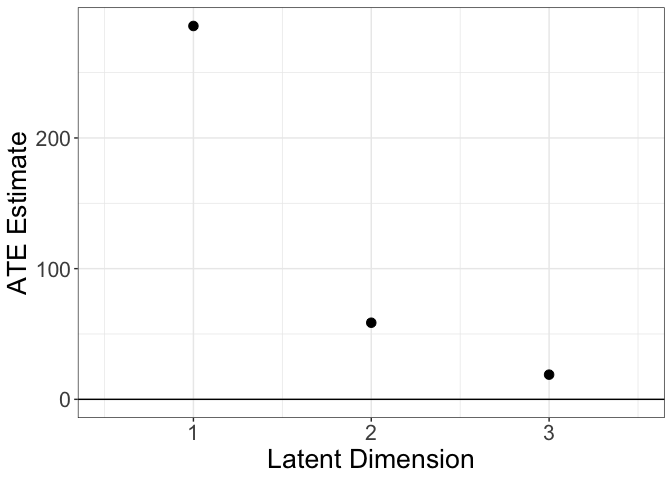
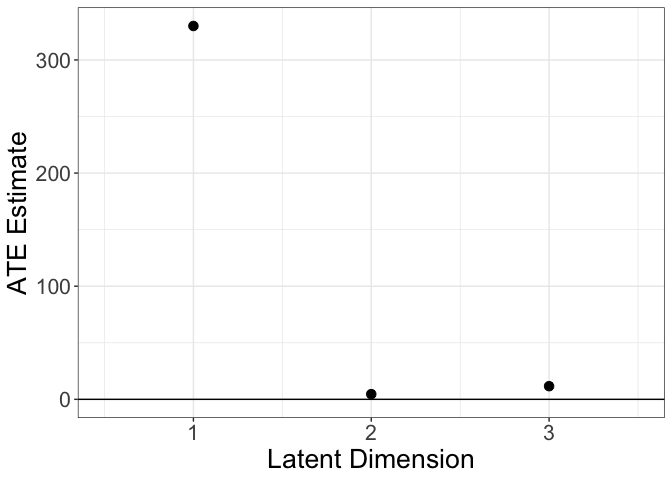
update Rmd

diff --git a/README.md b/README.md
@@ -48,6 +48,8 @@ for (i in 1:N) {
 
 ### Run impute and stabilize algorithm once to yield a point estimate.
 
+Providing a `reference_P` does not affect the algorithm, but aligns results at the end.
+
 ``` r
 impute_and_stabilize_res <- impute_and_stabilize(
   M, Tr, rank = 3, reference_P = true_P
@@ -65,9 +67,9 @@ summary(impute_and_stabilize_res)
 
 ```         
         ATE
-1 285.68717
-2  58.62578
-3  18.89587
+1 330.03103
+2   4.59252
+3  11.64228
 ```
 
 ``` r
@@ -76,7 +78,7 @@ plot(impute_and_stabilize_res)
 
 ![](README_files/figure-commonmark/unnamed-chunk-4-1.png)
 
-If you have multiple sets of results, they can be plotted together with `plot_causalLFO_results`. This could be from multiple algorithms as we have here, or alternatively from multiple datasets.
+If you have multiple sets of results, they can be plotted together with `plot_causalLFO_results`. This could be from multiple algorithms as we have here, or alternatively from multiple datasets. This only makes sense when the same `reference_P` is used for all results. If a reference is not available, the resulting `Phat` from the first result.
 
 ``` r
 all_data_res <- all_data(
@@ -158,10 +160,8 @@ plot_causalLFO_bootstrap_results(res_list)
 
 ## Algorithms
 
-This section follows the notation of the paper “Causal Inference for Latent Factor-Modeled Outcomes”. Please refer to sections 2 and 3 for details.
-
-The primary algorithm provided by this package is the `impute_and_stabilize` algorithm proposed in the paper “Causal Inference for Latent Factor-Modeled Outcomes”. We first estimate unobserved potential outcomes $\mathbf Y(1-\mathbf T)$ with imputations $\tilde{\mathbf Y}_{1-\mathbf T}$. We fit the factor model $\hat{\boldsymbol \lambda}$ on a matrix of the original sample size $\tilde{\mathbf Y}_{\mathbf 0}$ as a combination of observed (for $T_i = 0$) and imputed (for $T_i = 1$) values to estimate $\ell_{\text{IS}, 0}(Y_i, T_i)$. A non-negative linear model is then used on the remaining $\tilde{\mathbf Y}_{1}$ with fixed $\hat{\boldsymbol \lambda}$ to measure $\ell_{\text{IS}, 1}(Y_i, T_i)$. Pairwise comparisons are used to estimate ATE with a mean of individual treatment effects estimator.
-
-We also provide two baselines for comparison. First, `all_data` uses the full dataset $\mathbf Y$ to perform matrix decomposition to estimate $\hat{\boldsymbol \lambda}$ and $\ell_{\text{AD}, T_i}(Y_i, T_i)$, then again the full dataset to estimate causal effects with difference of means on $\ell_{\text{AD}, T_i}(Y_i, T_i)$. Second, we consider the `random_split` approach suggested by prior literature: identify a random subset of 50% of indices $S$, use $\mathbf Y_S$ as input to matrix decomposition to estimate $\hat{\boldsymbol \lambda}$, use a non-negative linear model on remaining data $\mathbf Y_{/S}$ to estimate latent outcomes $\ell_{\text{RS}, T_i}(Y_i, T_i)$ for $i \notin S$, and finally estimating the ATE with difference of means on those estimates.
-
-Finally, we provide two ablations of the novel Impute and Stabilize algorithm to identify the relative benefits of each component. In the `impute` ablation, we perform imputation as before, but we perform matrix decomposition on the observed data $\mathbf Y$ to estimate $\ell_{\text{I}, T_i}(Y_i, T_i)$ for observed $T_i$ and non-negative linear model on the imputed $\tilde{\mathbf Y}_{1-\mathbf T}$ to estimate $\ell_{\text{I}, 1-T_i}(Y_i, T_i)$ for unobserved $T_i$. In the `stabilize` ablation, we perform matrix decomposition only on the untreated subset of observed data $\mathbf Y_{\{i:T_i = 0\}}$ and non-negative linear model on the treated subset $\mathbf Y_{\{i:T_i = 1\}}$, and a simple difference of means is used on the estimated latent outcomes $\ell_{\text{S}, T_i}(Y_i, T_i)$.
+-   **All Data** algorithm to estimate ATE on latent factor-modeled outcomes. Fits NMF on all data, then estimates ATE from estimated latent outcomes. *Subject to measurement interference and not recommended by the authors.*
+-   **Random Split** algorithm to estimate ATE on latent factor-modeled outcomes. Fits NMF on a subset of data, a Poisson non-negative linear model on the rest with fixed factors, then estimates ATE from estimated latent outcomes in the second subset. *Subject to measurement interference and not recommended by the authors.*
+-   **Impute** algorithm to estimate ATE on latent factor-modeled outcomes. Imputes counterfactual outcomes under Poisson distributional assumptions, fits NMF on observed data, a Poisson non-negative linear model on imputed data, then estimates ATE as the mean difference in estimated latent outcomes between treated and untreated. *Intended as an ablation of impute_and_stabilize and not recommended by the authors.*
+-   **Stabilize** algorithm to estimate ATE on latent factor-modeled outcomes. Fits NMF on untreated samples, a Poisson non-negative linear model on treated samples, then estimates ATE using estimated latent outcomes. *Intended as an ablation of impute_and_stabilize and not recommended by the authors.*
+-   **Impute and Stabilize** algorithm to estimate ATE on latent factor-modeled outcomes. Imputes counterfactual outcomes under Poisson distributional assumptions, fits NMF on untreated data (mix of observed and imputed), a Poisson non-negative linear model on treated data, then estimates ATE as the mean difference in estimated latent outcomes between treated and untreated.
